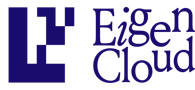
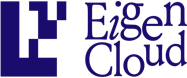
feat: Bridge34 로고 8개 추가(D3·MegaETH·Eigen Cloud·Ethena·Falcon·Virtuals·Axis Robotics·0G), 6열 가운데 정렬

diff --git a/index.html b/index.html
@@ -193,15 +193,15 @@ footer{font:500 12px var(--mono);color:var(--dim);padding-block:10px 40px;displa
 .b34-stats strong{display:block;font:800 clamp(28px,3.2vw,42px)/1 var(--display)}
 .b34-stats span{display:block;color:var(--dim);font-size:13.5px;margin-top:6px}
 .b34-cap{margin:0;font:500 12px var(--mono);letter-spacing:1.5px;text-transform:uppercase;color:var(--dim)}
-.b34-logos{display:grid;grid-template-columns:repeat(5,1fr);gap:10px}
-.lg{display:flex;align-items:center;justify-content:center;height:72px;border:1px solid var(--line);border-radius:12px;background:var(--paper);padding:0 12px}
+.b34-logos{display:flex;flex-wrap:wrap;justify-content:center;gap:10px}
+.lg{display:flex;align-items:center;justify-content:center;flex:0 0 calc((100% - 50px)/6);height:72px;border:1px solid var(--line);border-radius:12px;background:var(--paper);padding:0 12px}
 .b34-logos img{width:auto;max-width:100%;object-fit:contain;filter:grayscale(1);opacity:.8}
 .b34-logos img:hover{filter:none;opacity:1}
-.lg-sq{display:flex;align-items:center;gap:8px;filter:grayscale(1);opacity:.8}.lg-sq img{width:28px!important;height:28px!important;border-radius:7px;filter:none!important;opacity:1!important}.lg-sq b{font:700 20px var(--body);letter-spacing:.5px}
+.lg-sq{display:flex;align-items:center;gap:8px;filter:grayscale(1);opacity:.8}.lg-sq img{width:28px!important;height:28px!important;border-radius:7px;filter:none!important;opacity:1!important}.lg-sq b{font:700 16px var(--body);letter-spacing:.2px;white-space:nowrap}
 @media (prefers-color-scheme:dark){:root:not([data-theme="light"]) .b34-logos img{filter:grayscale(1) invert(1)}}
 :root[data-theme="dark"] .b34-logos img{filter:grayscale(1) invert(1)}
-@media (max-width:860px){.b34-stats{grid-template-columns:1fr 1fr}.b34-stats div{border-right:0}.b34-logos{grid-template-columns:repeat(3,1fr)}}
-@media (max-width:520px){.b34-logos{grid-template-columns:repeat(2,1fr)}.lg{height:60px}}
+@media (max-width:860px){.b34-stats{grid-template-columns:1fr 1fr}.b34-stats div{border-right:0}.lg{flex-basis:calc((100% - 20px)/3)}}
+@media (max-width:520px){.lg{flex-basis:calc((100% - 10px)/2);height:60px}}
 
 .lead{font:600 clamp(18px,1.8vw,22px)/1.45 var(--body);color:var(--ink2);margin:14px 0 0;max-width:34ch}
 .why{color:var(--ink2);font-size:17px;max-width:62ch;margin:-12px 0 22px}
@@ -289,7 +289,7 @@ footer{font:500 12px var(--mono);color:var(--dim);padding-block:10px 40px;displa
       <div><strong>4</strong><span>GTM · Marketing · Events · Analytics</span></div>
     </div>
     <p class="b34-cap">Trusted by (via Bridge34)</p>
-    <div class="b34-logos"><span class="lg"><img src="assets/b34/circle.png" alt="Circle" style="height:30px" loading="lazy"></span><span class="lg"><img src="assets/b34/stable.svg" alt="Stable" style="height:29px" loading="lazy"></span><span class="lg"><img src="assets/b34/aptos.svg" alt="Aptos" style="height:31px" loading="lazy"></span><span class="lg"><img src="assets/b34/bio.svg" alt="BIO Protocol" style="height:31px" loading="lazy"></span><span class="lg"><span class="lg-sq"><img src="assets/b34/grvt.jpg" alt="GRVT"><b>GRVT</b></span></span><span class="lg"><img src="assets/b34/linea.svg" alt="Linea" style="height:31px" loading="lazy"></span><span class="lg"><img src="assets/b34/dappos.svg" alt="dappOS" style="height:28px" loading="lazy"></span><span class="lg"><img src="assets/b34/blockstreet.svg" alt="Block Street" style="height:19px" loading="lazy"></span><span class="lg"><img class="inv" src="assets/b34/synfutures.png" alt="SynFutures" style="height:25px" loading="lazy"></span><span class="lg"><img class="inv" src="assets/b34/arcium.svg" alt="Arcium" style="height:17px" loading="lazy"></span><span class="lg"><img src="assets/b34/infinit.svg" alt="Infinit" style="height:22px" loading="lazy"></span><span class="lg"><img src="assets/b34/orderly.svg" alt="Orderly Network" style="height:30px" loading="lazy"></span><span class="lg"><img src="assets/b34/maplestory-universe.svg" alt="MapleStory Universe" style="height:33px" loading="lazy"></span><span class="lg"><img src="assets/b34/bora.svg" alt="BORA" style="height:32px" loading="lazy"></span><span class="lg"><img src="assets/b34/iost-2.svg" alt="IOST" style="height:34px" loading="lazy"></span></div>
+    <div class="b34-logos"><span class="lg"><img src="assets/b34/circle.png" alt="Circle" style="height:30px" loading="lazy"></span><span class="lg"><img src="assets/b34/stable.svg" alt="Stable" style="height:29px" loading="lazy"></span><span class="lg"><img src="assets/b34/aptos.svg" alt="Aptos" style="height:31px" loading="lazy"></span><span class="lg"><img src="assets/b34/bio.svg" alt="BIO Protocol" style="height:31px" loading="lazy"></span><span class="lg"><span class="lg-sq"><img src="assets/b34/grvt.jpg" alt="GRVT"><b>GRVT</b></span></span><span class="lg"><img src="assets/b34/linea.svg" alt="Linea" style="height:31px" loading="lazy"></span><span class="lg"><img src="assets/b34/dappos.svg" alt="dappOS" style="height:28px" loading="lazy"></span><span class="lg"><img src="assets/b34/blockstreet.svg" alt="Block Street" style="height:19px" loading="lazy"></span><span class="lg"><img class="inv" src="assets/b34/synfutures.png" alt="SynFutures" style="height:25px" loading="lazy"></span><span class="lg"><img class="inv" src="assets/b34/arcium.svg" alt="Arcium" style="height:17px" loading="lazy"></span><span class="lg"><img src="assets/b34/infinit.svg" alt="Infinit" style="height:22px" loading="lazy"></span><span class="lg"><img src="assets/b34/orderly.svg" alt="Orderly Network" style="height:30px" loading="lazy"></span><span class="lg"><img src="assets/b34/maplestory-universe.svg" alt="MapleStory Universe" style="height:33px" loading="lazy"></span><span class="lg"><img src="assets/b34/bora.svg" alt="BORA" style="height:32px" loading="lazy"></span><span class="lg"><img src="assets/b34/iost-2.svg" alt="IOST" style="height:34px" loading="lazy"></span><span class="lg"><img src="assets/b34/d3.png" alt="D3" style="height:33px" loading="lazy"></span><span class="lg"><img src="assets/b34/megaeth.svg" alt="MegaETH" style="height:23px" loading="lazy"></span><span class="lg"><img src="assets/b34/eigen-cloud.png" alt="Eigen Cloud" style="height:38px" loading="lazy"></span><span class="lg"><span class="lg-sq"><img src="assets/b34/ethena.png" alt="Ethena"><b>Ethena</b></span></span><span class="lg"><img src="assets/b34/falcon-finance.svg" alt="Falcon Finance" style="height:33px" loading="lazy"></span><span class="lg"><img src="assets/b34/virtuals-protocol.svg" alt="Virtuals Protocol" style="height:34px" loading="lazy"></span><span class="lg"><span class="lg-sq"><img src="assets/b34/axis-robotics.png" alt="Axis Robotics"><b>Axis Robotics</b></span></span><span class="lg"><img src="assets/b34/og.svg" alt="0G" style="height:40px" loading="lazy"></span></div>
   </div>
 </section>
 
